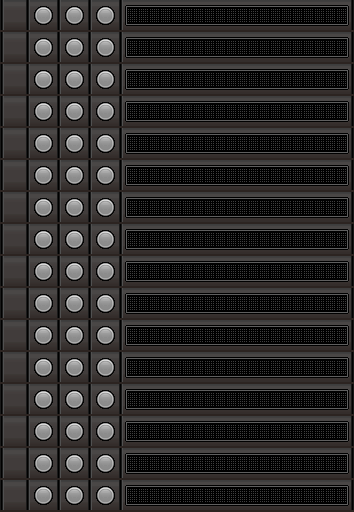
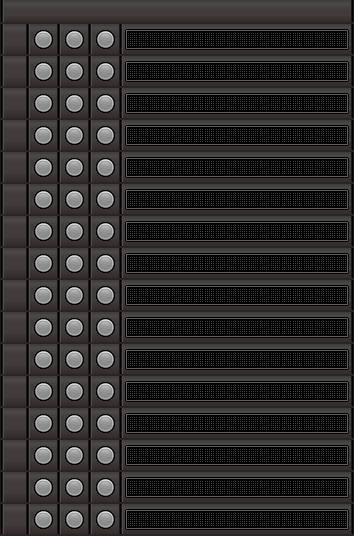
更新

diff --git a/EasySequencer/Monitor.cs b/EasySequencer/Monitor.cs
@@ -16,6 +16,7 @@ namespace EasySequencer {
 
         Point mMouseDownPos;
         bool mIsDrag;
+        bool mIsMove;
         bool mIsParamChg;
         int mChannelNo;
         int mKnobNo;
@@ -34,57 +35,58 @@ namespace EasySequencer {
             Trimming = StringTrimming.EllipsisCharacter,
         };
 
-        static readonly int ChannelHeight = 40;
+        static readonly int TabHeight = 26;
+        static readonly int ChannelHeight = 32;
         static readonly float KnobRadius = 11.0f;
 
-        static readonly Rectangle MuteButton = new Rectangle(542, 8, 13, 18);
-        static readonly Rectangle InstName = new Rectangle(1014, 10, 146, 19);
+        static readonly Rectangle MuteButton = new Rectangle(496, 27, 28, 30);
+        static readonly Rectangle InstName = new Rectangle(999, 36, 219, 13);
 
-        static readonly Rectangle MeterPosL = new Rectangle(574, 7, 120, 5);
-        static readonly Rectangle MeterPosR = new Rectangle(574, 17, 120, 5);
-        static readonly Size MeterCell = new Size(4, 5);
-        static readonly double MeterMin = -24.0;
+        static readonly Rectangle MeterPosL = new Rectangle(537, 31, 144, 6);
+        static readonly Rectangle MeterPosR = new Rectangle(537, 40, 144, 6);
+        static readonly Size MeterCell = new Size(4, 6);
+        static readonly double MeterMin = -30.0;
         static readonly double MeterMax = 6.0;
 
         static readonly Rectangle[] KeyboardPos = {
-            new Rectangle( 5, 20, 6, 10),   // C
-            new Rectangle( 9,  1, 5, 19),   // Db
-            new Rectangle(12, 20, 6, 10),   // D
-            new Rectangle(16,  1, 5, 19),   // Eb
-            new Rectangle(19, 20, 6, 10),   // E
-            new Rectangle(26, 20, 6, 10),   // F
-            new Rectangle(30,  1, 5, 19),   // Gb
-            new Rectangle(33, 20, 6, 10),   // G
-            new Rectangle(37,  1, 5, 19),   // Ab
-            new Rectangle(40, 20, 6, 10),   // A
-            new Rectangle(44,  1, 5, 19),   // Bb
-            new Rectangle(47, 20, 6, 10)    // B
+            new Rectangle(40, 44, 5, 9),  // C
+            new Rectangle(43, 31, 5, 14), // Db
+            new Rectangle(46, 44, 5, 9),  // D
+            new Rectangle(49, 31, 5, 14), // Eb
+            new Rectangle(52, 44, 5, 9),  // E
+            new Rectangle(58, 44, 5, 9),  // F
+            new Rectangle(61, 31, 5, 14), // Gb
+            new Rectangle(64, 44, 5, 9),  // G
+            new Rectangle(67, 31, 5, 14), // Ab
+            new Rectangle(70, 44, 5, 9),  // A
+            new Rectangle(73, 31, 5, 14), // Bb
+            new Rectangle(76, 44, 5, 9)   // B
         };
 
         static readonly int OctWidth = (KeyboardPos[0].Width + 1) * 7;
 
         static readonly Point[] KnobPos = {
-            new Point(716, 16), // Vol.
-            new Point(749, 16), // Exp.
-            new Point(782, 16), // Pan.
-            new Point(821, 16), // Rev.
-            new Point(854, 16), // Cho.
-            new Point(887, 16), // Del.
-            new Point(926, 16), // Fc
-            new Point(959, 16), // Q
-            new Point(992, 16)  // Mod.
+            new Point(703, 43), // Vol.
+            new Point(736, 43), // Exp.
+            new Point(769, 43), // Pan.
+            new Point(805, 43), // Rev.
+            new Point(838, 43), // Cho.
+            new Point(871, 43), // Del.
+            new Point(907, 43), // Fc
+            new Point(940, 43), // Q
+            new Point(973, 43)  // Mod.
         };
 
         static readonly Point[] KnobValPos = {
-            new Point(706, 11), // Vol.
-            new Point(739, 11), // Exp.
-            new Point(772, 11), // Pan.
-            new Point(811, 11), // Rev.
-            new Point(844, 11), // Cho.
-            new Point(877, 11), // Del.
-            new Point(916, 11), // Fc
-            new Point(949, 11), // Q
-            new Point(982, 11)  // Mod.
+            new Point(694, 38), // Vol.
+            new Point(727, 38), // Exp.
+            new Point(760, 38), // Pan.
+            new Point(796, 38), // Rev.
+            new Point(829, 38), // Cho.
+            new Point(862, 38), // Del.
+            new Point(898, 38), // Fc
+            new Point(931, 38), // Q
+            new Point(964, 38)  // Mod.
         };
 
         static readonly PointF[] Knob = {
@@ -125,8 +127,10 @@ namespace EasySequencer {
         public Monitor(Sender sender) {
             InitializeComponent();
 
-            picMonitor.Width = Resources.Keyboard.Width + 2;
-            picMonitor.Height = Resources.Keyboard.Height + 2;
+            Width = Resources.piano.Width;
+            Height = Resources.piano.Height;
+            picMonitor.Width = Width;
+            picMonitor.Height = Height;
 
             picMonitor.DoubleClick += new EventHandler(picMonitor_DoubleClick);
             picMonitor.MouseDown += new MouseEventHandler(picMonitor_MouseDown);
@@ -134,7 +138,7 @@ namespace EasySequencer {
             picMonitor.MouseUp += new MouseEventHandler(picMonitor_MouseUp);
 
             picMonitor.Image = new Bitmap(picMonitor.Width, picMonitor.Height);
-            mBuffer = new DoubleBuffer(picMonitor, Resources.Keyboard);
+            mBuffer = new DoubleBuffer(picMonitor, Resources.piano);
             mSender = sender;
         }
 
@@ -150,7 +154,7 @@ namespace EasySequencer {
 
         void picMonitor_DoubleClick(object sender, EventArgs e) {
             mMouseDownPos = picMonitor.PointToClient(Cursor.Position);
-            var channel = mMouseDownPos.Y / ChannelHeight;
+            var channel = (mMouseDownPos.Y - TabHeight) / ChannelHeight;
             if (InstName.X <= mMouseDownPos.X && channel < 16) {
                 var fm = new InstList(mSender, channel);
                 fm.ShowDialog();
@@ -159,7 +163,7 @@ namespace EasySequencer {
 
         void picMonitor_MouseDown(object sender, MouseEventArgs e) {
             mMouseDownPos = picMonitor.PointToClient(Cursor.Position);
-            var knobY = mMouseDownPos.Y / ChannelHeight;
+            var knobY = (mMouseDownPos.Y - TabHeight) / ChannelHeight;
             var knobX = -1;
             for (int i = 0; i < KnobPos.Length; i++) {
                 var x = mMouseDownPos.X - KnobPos[i].X - 1.5;
@@ -169,10 +173,12 @@ namespace EasySequencer {
                     knobX = i;
                 }
             }
-            mIsDrag = 0 <= knobX;
+
+            mIsMove = mMouseDownPos.Y < TabHeight;
+            mIsDrag = 0 <= knobX && TabHeight <= mMouseDownPos.Y;
 
             mChannelNo = knobY;
-            if (MuteButton.X <= mMouseDownPos.X && mMouseDownPos.X < MuteButton.X + MuteButton.Width) {
+            if (TabHeight <= mMouseDownPos.Y && MuteButton.X <= mMouseDownPos.X && mMouseDownPos.X < MuteButton.X + MuteButton.Width) {
                 if (e.Button == MouseButtons.Right) {
                     if (1 == mSender.Channel(knobY).enable) {
                         for (int i = 0; i < 16; ++i) {
@@ -199,6 +205,7 @@ namespace EasySequencer {
         }
 
         void picMonitor_MouseUp(object sender, MouseEventArgs e) {
+            mIsMove = false;
             mIsDrag = false;
         }
 
@@ -227,6 +234,12 @@ namespace EasySequencer {
                 }
 
                 mIsParamChg = true;
+            }
+            if (mIsMove) {
+                var pos = Cursor.Position;
+                pos.X -= mMouseDownPos.X;
+                pos.Y -= mMouseDownPos.Y;
+                Location = pos;
             }
         }
 

diff --git a/EasySequencer/Monitor.Designer.cs b/EasySequencer/Monitor.Designer.cs
@@ -30,12 +30,12 @@
             // picMonitor
             // 
             this.picMonitor.BackColor = System.Drawing.Color.Transparent;
-            this.picMonitor.BackgroundImage = global::EasySequencer.Properties.Resources.Keyboard;
+            this.picMonitor.BackgroundImage = global::EasySequencer.Properties.Resources.piano;
             this.picMonitor.BackgroundImageLayout = System.Windows.Forms.ImageLayout.None;
             this.picMonitor.InitialImage = null;
             this.picMonitor.Location = new System.Drawing.Point(0, 0);
             this.picMonitor.Name = "picMonitor";
-            this.picMonitor.Size = new System.Drawing.Size(1161, 642);
+            this.picMonitor.Size = new System.Drawing.Size(1227, 541);
             this.picMonitor.TabIndex = 1;
             this.picMonitor.TabStop = false;
             // 
@@ -43,8 +43,9 @@
             // 
             this.AutoScaleDimensions = new System.Drawing.SizeF(6F, 12F);
             this.AutoScaleMode = System.Windows.Forms.AutoScaleMode.Font;
-            this.ClientSize = new System.Drawing.Size(1159, 640);
+            this.ClientSize = new System.Drawing.Size(1237, 551);
             this.Controls.Add(this.picMonitor);
+            this.FormBorderStyle = System.Windows.Forms.FormBorderStyle.None;
             this.Name = "Monitor";
             this.Text = "Monitor";
             this.Load += new System.EventHandler(this.Monitor_Load);

diff --git a/EasySequencer/Properties/Resources.Designer.cs b/EasySequencer/Properties/Resources.Designer.cs
@@ -83,6 +83,16 @@ namespace EasySequencer.Properties {
         /// <summary>
         ///   型 System.Drawing.Bitmap のローカライズされたリソースを検索します。
         /// </summary>
+        internal static System.Drawing.Bitmap piano {
+            get {
+                object obj = ResourceManager.GetObject("piano", resourceCulture);
+                return ((System.Drawing.Bitmap)(obj));
+            }
+        }
+        
+        /// <summary>
+        ///   型 System.Drawing.Bitmap のローカライズされたリソースを検索します。
+        /// </summary>
         internal static System.Drawing.Bitmap player {
             get {
                 object obj = ResourceManager.GetObject("player", resourceCulture);
